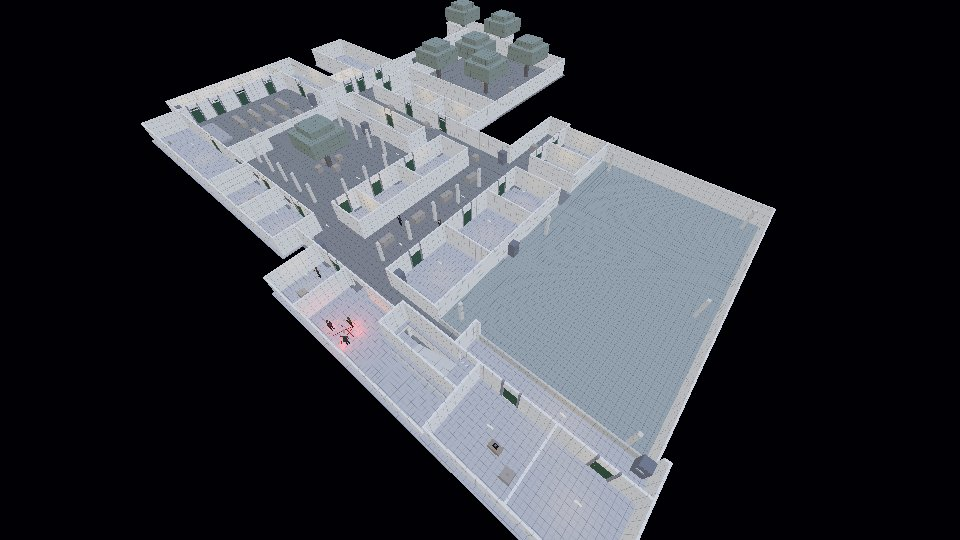
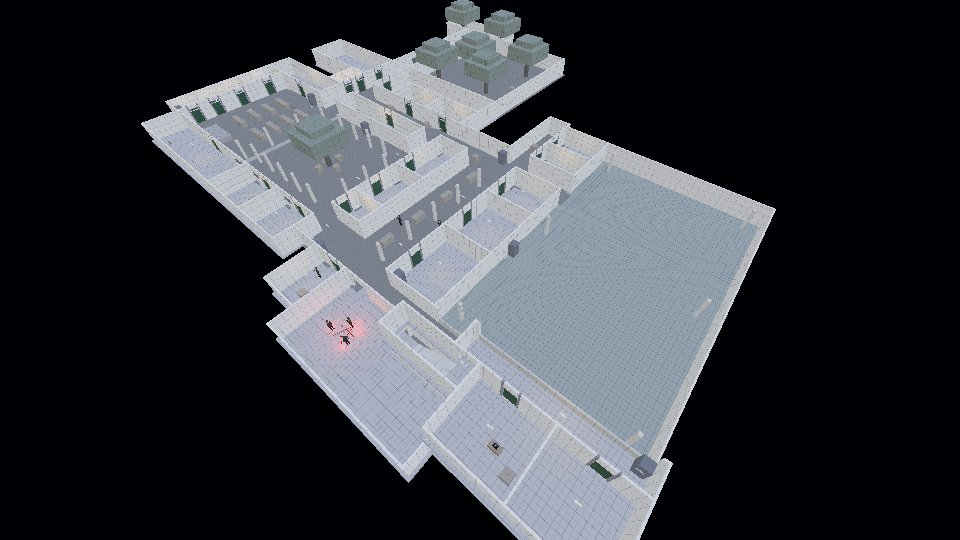
Mapa: correções de Felipe no bloqueio
Pátio de química 3 m mais fundo; pátio aberto de concreto; pátio e
refeitório separados por relevo baixo (=) em vez de parede; palco mais
alto (0,8 m) e menor; lab de contabilidade ao lado da sala de esportes.
Cores verde/amarelo registradas para a fase de decoração.

Claude-Session: https://claude.ai/code/session_015xcccNpRNZndvxzEBCWPMg

Changed region(s): [[0.2812, 0.563, 0.4688, 0.8889], [0.2188, 0.1778, 0.375, 0.2963]]

diff --git a/scripts/desenhar-planta.py b/scripts/desenhar-planta.py
@@ -136,6 +136,8 @@ def desenhar_andar(img, draw, g, ox, oy, S, fundo=None, titulo=""):
             cx, cy = x0 + S / 2, y0 + S / 2
             if s == "%":
                 draw.rectangle([x0 + 1, y0 + 1, x0 + S - 2, y0 + S - 2], fill=(176, 136, 96), outline=(120, 90, 60))
+            elif s == "=":
+                draw.rectangle([x0 + S * .1, y0 + S * .1, x0 + S * .9, y0 + S * .9], fill=(185, 185, 178))
             elif s == "C":
                 draw.rectangle([cx - S * .22, cy - S * .22, cx + S * .22, cy + S * .22], fill=(60, 60, 60))
             elif s == "T":
@@ -278,6 +280,7 @@ def legenda(draw, x, y):
         ("bloco baixo (cobertura)", lambda d, a, b: d.rectangle([a[0], a[1] - 5, a[0] + 10, a[1] + 5], fill=(176, 136, 96))),
         ("armário (esconderijo)", lambda d, a, b: d.rectangle([a[0], a[1] - 5, a[0] + 10, a[1] + 5], fill=(130, 40, 170))),
         ("posto de cultista + visão 10,5 m", lambda d, a, b: d.ellipse([a[0], a[1] - 6, a[0] + 12, a[1] + 6], fill=(210, 20, 20))),
+        ("relevo no chão (8 cm)", lambda d, a, b: d.rectangle([a[0], a[1] - 4, a[0] + 22, a[1] + 4], fill=(185, 185, 178))),
         ("lâmpada", lambda d, a, b: d.ellipse([a[0], a[1] - 3, a[0] + 6, a[1] + 3], fill=(240, 190, 40))),
         ("escada (seta = sobe)", lambda d, a, b: d.polygon([(a[0], a[1]), (a[0] + 10, a[1] - 5), (a[0] + 10, a[1] + 5)], fill=(80, 60, 160))),
         ("colisão montada no jogo", lambda d, a, b: d.rectangle([a[0], a[1] - 5, a[0] + 22, a[1] + 5], outline=(220, 0, 200))),

diff --git a/docs/PASSAGEM-PARA-CLAUDE.md b/docs/PASSAGEM-PARA-CLAUDE.md
@@ -175,6 +175,26 @@ nota (o modo é só observação). Testes não substituem Felipe jogando.
 
 **Bloqueio cinza aguardando aprovação de Felipe. Não decorar antes.**
 
+### Correções de Felipe sobre o bloqueio (02/11, mesma parte 3)
+
+Felipe olhou a planta e mandou um esboço em perspectiva do pátio/refeitório. Aplicado:
+- Pátio de química 3 m mais fundo para o norte (as salas vizinhas não mudaram).
+  A grade ganhou 3 linhas no topo; todos os pontos em células subiram 3 linhas.
+- Pátio aberto é **concreto** (sem azulejo); a calçada coberta junto às salas fica.
+  No bloqueio o concreto agora é liso (só azulejo e paredes mostram a grade de 1 m).
+- Pátio e refeitório **sem parede**: separados por um relevo baixo (`=`, 8 cm,
+  passa-se por cima). Colunas da cobertura do refeitório junto ao relevo.
+- Palco do auditório: mais alto (0,8 m) e menor (6×3 m).
+- Do esboço: lab de contabilidade logo depois da sala de esportes; trocado com a
+  sala de música (confirmar).
+- **Cores para a decoração (depois da aprovação)**: a maior parte das paredes é
+  verde ou amarela, inclusive no pátio de química. O bloqueio continua cinza.
+
+Testes depois das correções: capítulo 47, mapa 18, nível 10; percurso rota 7/7
+(163 s), pátio 8/8 (suspeita máx. 0,69). Furtivo (só observação): o ritual nota o
+robô (anda em pé) e o perseguidor o pega na fuga; sem a parede, o pátio e o
+refeitório viraram uma área aberta só, com mais visão.
+
 ## Arquivos importantes
 
 | Arquivo | Papel |

diff --git a/docs/LEVEL-DESIGN-CAPITULO1.md b/docs/LEVEL-DESIGN-CAPITULO1.md
@@ -41,6 +41,10 @@ Regras derivadas:
 - A escada fica no pátio de química, em caixa fechada, e não sai da quadra. O
   pátio de química é coberto e é onde acontece o ritual.
 - Do refeitório parte a passagem estreita até o portão 1.
+- Pátio aberto e refeitório são uma área só, separados por um relevo baixo no chão
+  (sem parede). Pátio de concreto, com calçada coberta junto às salas.
+- Palco do auditório elevado (0,8 m), porta da biblioteca logo ao lado.
+- Paredes verdes ou amarelas (inclusive no pátio de química) na fase de decoração.
 
 ## Rotas até o pátio de química
 

diff --git a/godot-3d/capitulo1/mapa/LEIA-ME.md b/godot-3d/capitulo1/mapa/LEIA-ME.md
@@ -19,7 +19,7 @@ A legenda completa está no topo de cada `.txt`. Resumo:
 ```
 #  parede        -  mureta       D  porta (sempre DD)   W  janela gradeada
 O  vão com verga G  portão       C  coluna              T  árvore
-%  bloco baixo   L  lâmpada      < > ^ v  escada (seta = sobe)
+%  bloco baixo   L  lâmpada      =  relevo no chão (8 cm)   < > ^ v  escada (seta = sobe)
 .  azulejo coberto  ;  cimento coberto  ,  céu aberto  :  quadra  _  palco
 @  acorda   $  bolsa   *  ritual   +  checkpoint 2   &  armário   1–4  postos
 ```
